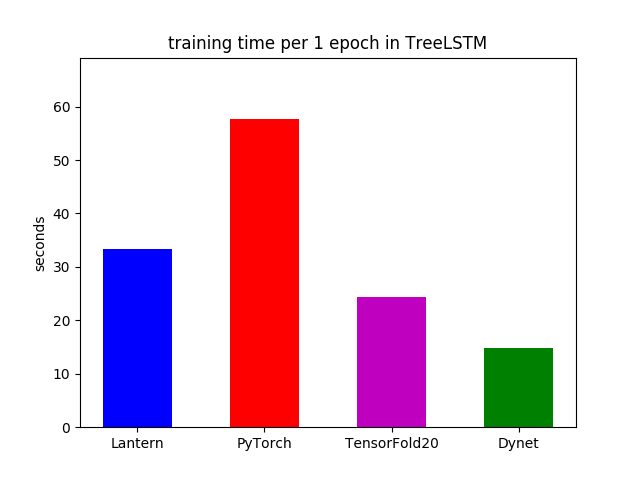
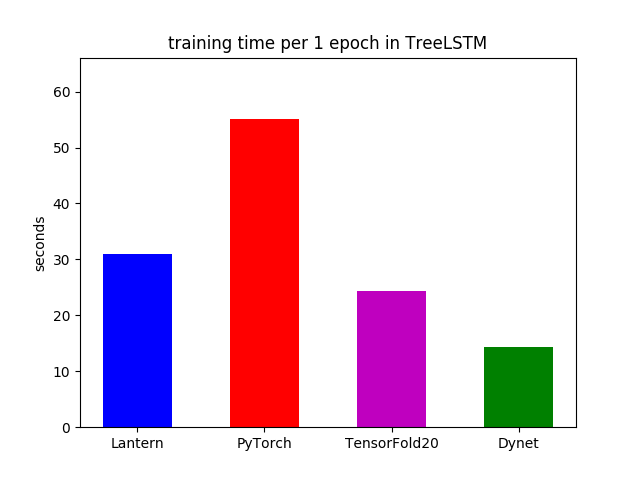
more minor fixes for NIPS eva

diff --git a/src/out/NIPS18evaluation/evaluationTreeLSTM/TensorFold/TreeLSTMTensorFlow.py b/src/out/NIPS18evaluation/evaluationTreeLSTM/TensorFold/TreeLSTMTensorFlow.py
@@ -8,7 +8,10 @@ from nltk.tokenize import sexpr
 import numpy as np
 from six.moves import urllib
 import tensorflow as tf
-sess = tf.InteractiveSession()
+session_conf = tf.ConfigProto(
+      intra_op_parallelism_threads=1,
+      inter_op_parallelism_threads=1)
+sess = tf.InteractiveSession(config=session_conf)
 import tensorflow_fold as td
 import time
 
@@ -42,7 +45,7 @@ def run(write_to, batch_size_setting):
     'glove.840B.300d.txt')
 
   train_path, dev_path, test_path = download_and_unzip(
-    'http://nlp.stanford.edu/sentiment/', 'trainDevTestTrees_PTB.zip', 
+    'http://nlp.stanford.edu/sentiment/', 'trainDevTestTrees_PTB.zip',
     'trees/train.txt', 'trees/dev.txt', 'trees/test.txt')
 
 
@@ -52,7 +55,7 @@ def run(write_to, batch_size_setting):
     vocab = set()
     # Download the full set of unlabeled sentences separated by '|'.
     sentence_path, = download_and_unzip(
-      'http://nlp.stanford.edu/~socherr/', 'stanfordSentimentTreebank.zip', 
+      'http://nlp.stanford.edu/~socherr/', 'stanfordSentimentTreebank.zip',
       'stanfordSentimentTreebank/SOStr.txt')
     with codecs.open(sentence_path, encoding='utf-8') as f:
       for line in f:
@@ -93,7 +96,7 @@ def run(write_to, batch_size_setting):
         -0.05, 0.05, weight_vectors[0].shape).astype(np.float32))
     return np.stack(weight_vectors), word_idx
 
-  weight_matrix, word_idx = load_embeddings(dev_glove_path)  
+  weight_matrix, word_idx = load_embeddings(dev_glove_path)
 
   def load_trees(filename):
     with codecs.open(filename, encoding='utf-8') as f:
@@ -179,7 +182,7 @@ def run(write_to, batch_size_setting):
     """Creates a block that goes from tokens to (logits, state) tuples."""
     unknown_idx = len(word_idx)
     lookup_word = lambda word: word_idx.get(word, unknown_idx)
-    
+
     word2vec = (td.GetItem(0) >> td.InputTransform(lookup_word) >>
                 td.Scalar('int32') >> word_embedding)
 

diff --git a/src/out/NIPS18evaluation/evaluationRNN/min-char-rnn-pytorch.py b/src/out/NIPS18evaluation/evaluationRNN/min-char-rnn-pytorch.py
@@ -10,6 +10,9 @@ from torch.autograd import Variable
 import torch.nn.functional as F
 
 def run(write_to):
+
+  torch.set_num_threads(1)
+
   start = time.time()
   data = open('graham.txt', 'r').read() # should be simple plain text file
   chars = list(set(data))

diff --git a/src/out/NIPS18evaluation/evaluationLSTM/min-char-lstm-pytorch.py b/src/out/NIPS18evaluation/evaluationLSTM/min-char-lstm-pytorch.py
@@ -11,6 +11,8 @@ import torch.nn.functional as F
 
 def run(write_to):
   # data I/O
+  torch.set_num_threads(1)
+
   start = time.time()
   data = open('graham.txt', 'r').read() # should be simple plain text file
   chars = list(set(data))

diff --git a/src/out/NIPS18evaluation/evaluationTreeLSTM/PyTorch/treeLSTM.py b/src/out/NIPS18evaluation/evaluationTreeLSTM/PyTorch/treeLSTM.py
@@ -9,6 +9,8 @@ from torch.autograd import Variable as Var
 import numpy as np
 import torch.nn.functional as F
 
+
+torch.set_num_threads(1)
 startTime = time.time()
 torch.manual_seed(7)
 # read word embedding
